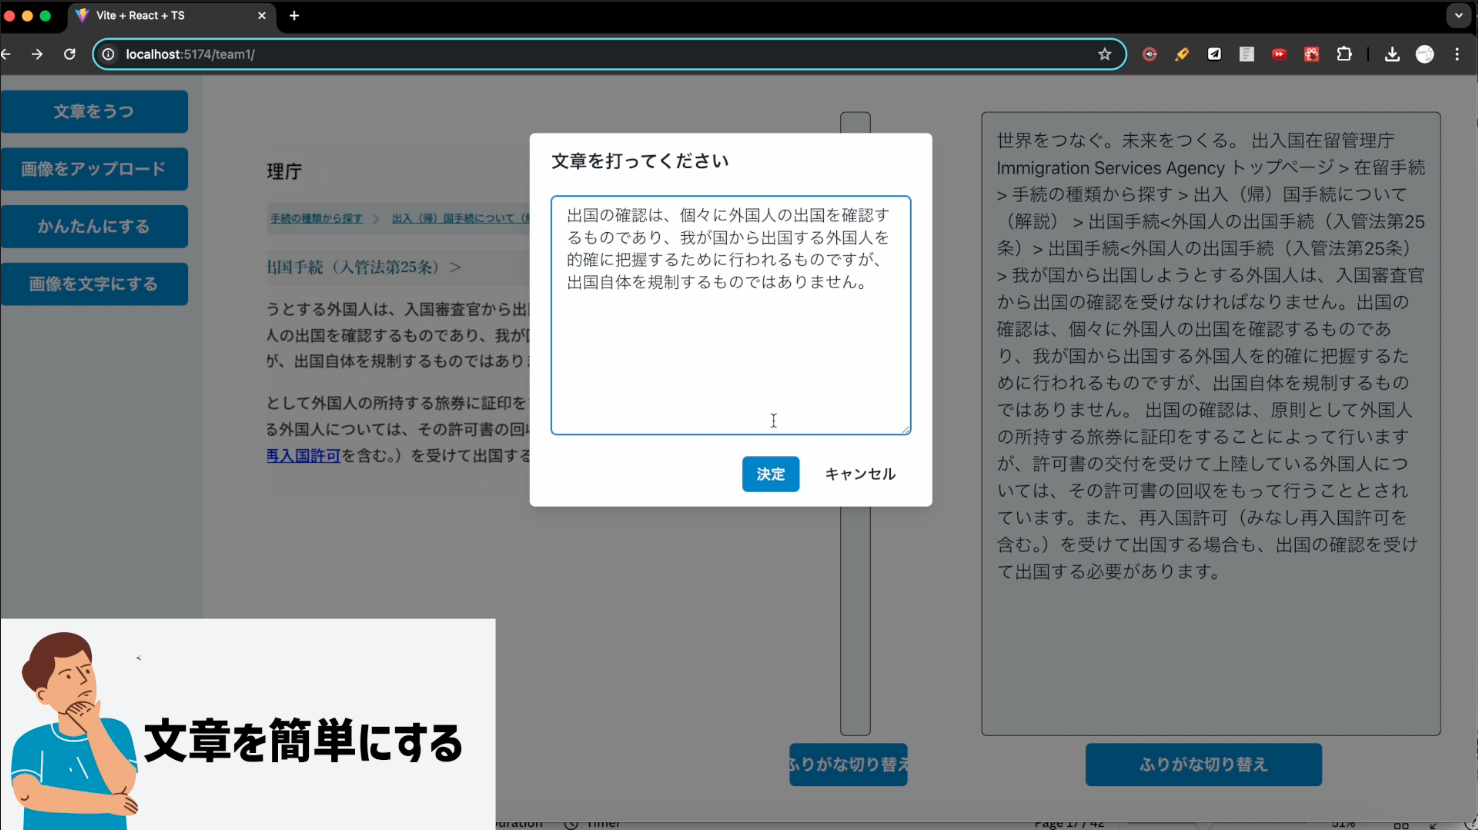
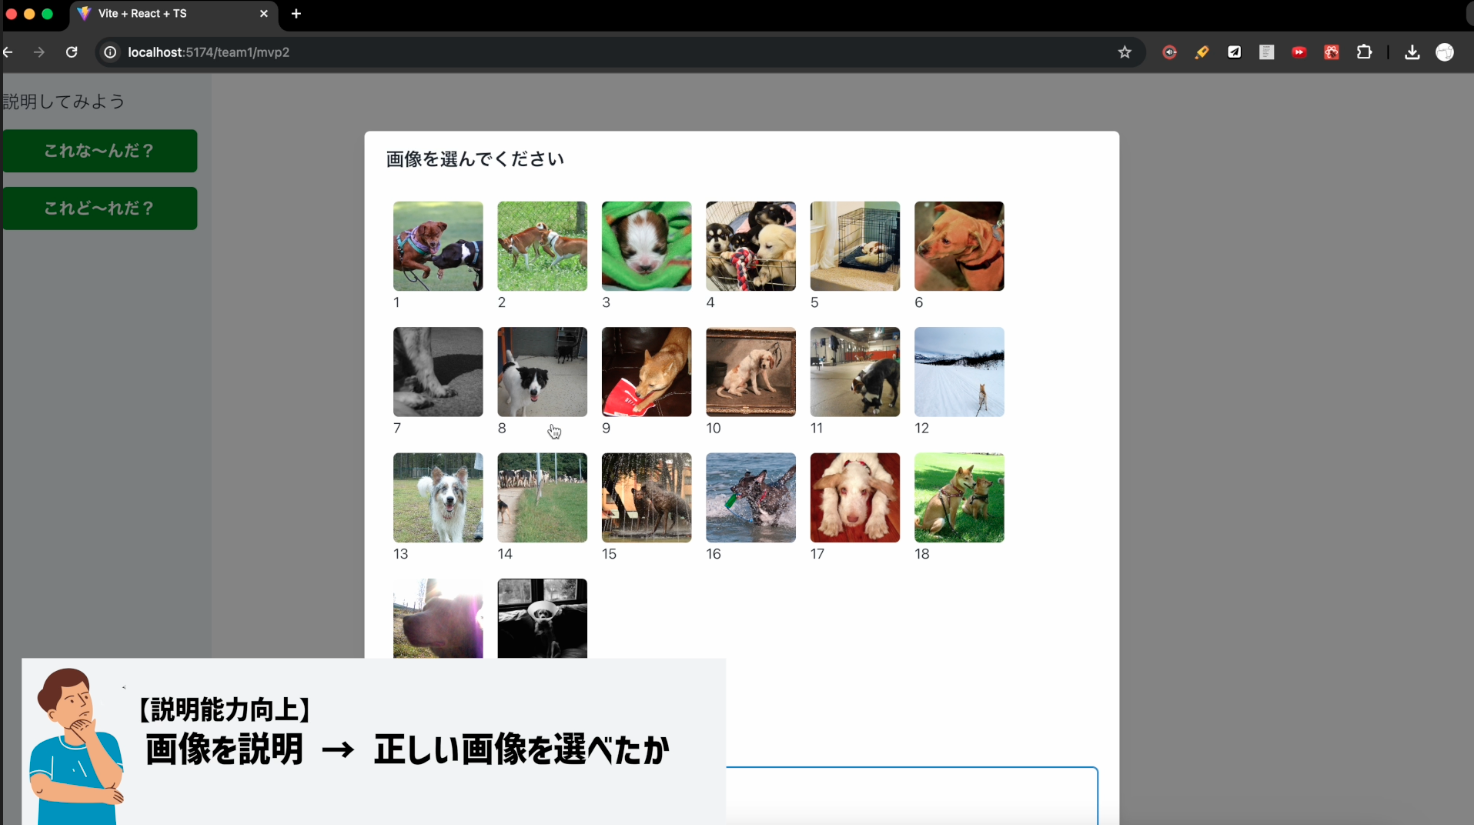
feat: デザイン修正

diff --git a/app/globals.css b/app/globals.css
@@ -57,25 +57,103 @@
 }
 
 .gold-outline-button {
-    border: 3px solid transparent;
-    background: linear-gradient(transparent, transparent) padding-box,
-        linear-gradient(90deg, #B39855 0%, #FFF9E6 50%, #B39855 100%) border-box;
+    position: relative;
+    isolation: isolate;
+    border: 0;
+    background: rgba(0, 0, 0, 0.2);
 }
 
-.gold-outline-button:hover {
-    background: linear-gradient(transparent, transparent) padding-box,
-        linear-gradient(90deg, #B39855 0%, #FFF9E6 50%, #B39855 100%) border-box;
+.gold-outline-button::before,
+.purple-outline-button::before {
+    content: "";
+    position: absolute;
+    inset: 0;
+    z-index: -1;
+    padding: 3px;
+    border-radius: inherit;
+    pointer-events: none;
+    -webkit-mask: linear-gradient(#fff 0 0) content-box, linear-gradient(#fff 0 0);
+    -webkit-mask-composite: xor;
+    mask-composite: exclude;
 }
 
 .purple-outline-button {
-    border: 3px solid transparent;
-    background: linear-gradient(transparent, transparent) padding-box,
-        linear-gradient(90deg, #7E57C2 0%, #E1BEE7 50%, #7E57C2 100%) border-box;
+    position: relative;
+    isolation: isolate;
+    border: 0;
+    background: rgba(0, 0, 0, 0.2);
 }
 
-.purple-outline-button:hover {
-    background: linear-gradient(transparent, transparent) padding-box,
-        linear-gradient(90deg, #7E57C2 0%, #E1BEE7 50%, #7E57C2 100%) border-box;
+.gold-outline-button::before {
+    background: linear-gradient(90deg, #B39855 0%, #FFF9E6 50%, #B39855 100%);
+    background-size: 200% auto;
+    animation: shine 3s linear infinite;
+}
+
+.purple-outline-button::before {
+    background: linear-gradient(90deg, #7E57C2 0%, #E1BEE7 50%, #7E57C2 100%);
+    background-size: 200% auto;
+    animation: shine 3s linear infinite;
+}
+
+.tag-blue,
+.tag-purple,
+.tag-yellow,
+.tag-gray {
+    position: relative;
+    isolation: isolate;
+    border: 0;
+    background: rgba(0, 0, 0, 0.3);
+}
+
+.tag-blue::before,
+.tag-purple::before,
+.tag-yellow::before,
+.tag-gray::before {
+    content: "";
+    position: absolute;
+    inset: 0;
+    z-index: -1;
+    padding: 1px;
+    border-radius: inherit;
+    pointer-events: none;
+    -webkit-mask: linear-gradient(#fff 0 0) content-box, linear-gradient(#fff 0 0);
+    -webkit-mask-composite: xor;
+    mask-composite: exclude;
+    background-size: 200% auto;
+    animation: shine 3s linear infinite;
+}
+
+.tag-blue {
+    color: #93C5FD;
+}
+
+.tag-purple {
+    color: #D8B4FE;
+}
+
+.tag-yellow {
+    color: #FDE68A;
+}
+
+.tag-gray {
+    color: #D1D5DB;
+}
+
+.tag-blue::before {
+    background: linear-gradient(90deg, #2563EB 0%, #BFDBFE 50%, #2563EB 100%);
+}
+
+.tag-purple::before {
+    background: linear-gradient(90deg, #7E22CE 0%, #E9D5FF 50%, #7E22CE 100%);
+}
+
+.tag-yellow::before {
+    background: linear-gradient(90deg, #CA8A04 0%, #FEF08A 50%, #CA8A04 100%);
+}
+
+.tag-gray::before {
+    background: linear-gradient(90deg, #6B7280 0%, #F3F4F6 50%, #6B7280 100%);
 }
 
 .shine-yellow-bg {

diff --git a/components/Research/Presentations.tsx b/components/Research/Presentations.tsx
@@ -63,19 +63,19 @@ const PresentationCard: React.FC<{ pres: Presentation; index: number }> = ({ pre
               {pres.tags.map((tag) => (
                 <span
                   key={tag}
-                  className="rounded-full border border-blue-500/40 bg-gradient-to-r from-blue-600/30 to-blue-400/30 px-2.5 py-0.5 text-xs font-semibold text-blue-300"
+                  className="tag-blue rounded-full px-2.5 py-0.5 text-xs font-semibold"
                 >
-                  {tag}
+                  <span className="shine-blue-text">{tag}</span>
                 </span>
               ))}
             </div>
 
             <div className="mt-2 flex flex-wrap items-center gap-2">
-              <span className="rounded-full border border-purple-500/40 bg-gradient-to-r from-purple-600/30 to-purple-400/30 px-2.5 py-0.5 text-xs font-semibold text-purple-200">
-                {pres.event}
+              <span className="tag-purple rounded-full px-2.5 py-0.5 text-xs font-semibold">
+                <span className="shine-purple-text">{pres.event}</span>
               </span>
-              <span className="rounded-full border border-gray-500/50 bg-white/5 px-2.5 py-0.5 text-xs font-semibold text-gray-300">
-                {pres.date}
+              <span className="tag-gray rounded-full px-2.5 py-0.5 text-xs font-semibold">
+                <span className="shine-silver-text">{pres.date}</span>
               </span>
             </div>
           </div>

diff --git a/components/Blog/BlogList.tsx b/components/Blog/BlogList.tsx
@@ -43,10 +43,10 @@ const BlogList: React.FC<BlogListProps> = ({ posts }) => {
               className={`px-4 py-2 rounded-full text-sm transition-all duration-300 ${
                 selectedTag === null
                   ? 'shine-yellow-bg font-semibold'
-                  : 'bg-black/40 text-gray-300 hover:bg-black/60 border border-gray-600'
+                  : 'tag-purple text-sm hover:bg-black/50'
               }`}
             >
-              {t('all')}
+              <span className={selectedTag === null ? '' : 'shine-purple-text'}>{t('all')}</span>
             </button>
             {allTags.map((tag) => (
               <button
@@ -55,10 +55,10 @@ const BlogList: React.FC<BlogListProps> = ({ posts }) => {
                 className={`px-4 py-2 rounded-full text-sm transition-all duration-300 ${
                   selectedTag === tag
                   ? 'shine-yellow-bg font-semibold'
-                    : 'bg-black/40 text-gray-300 hover:bg-black/60 border border-gray-600'
+                  : 'tag-purple hover:bg-black/50'
                 }`}
               >
-                {tag}
+                <span className={selectedTag === tag ? 'text-black' : 'shine-purple-text'}>{tag}</span>
               </button>
             ))}
           </div>

diff --git a/components/Blog/BlogSection.tsx b/components/Blog/BlogSection.tsx
@@ -99,9 +99,9 @@ const BlogSection: React.FC<BlogSectionProps> = ({ posts }) => {
                           {post.tags.slice(0, 2).map((tag, index) => (
                             <span
                               key={index}
-                              className="px-2 py-1 text-xs rounded-full bg-gradient-to-r from-purple-600/20 to-purple-400/20 text-purple-300 border border-purple-500/30"
+                              className="tag-purple px-2 py-1 text-xs rounded-full"
                             >
-                              {tag}
+                              <span className="shine-purple-text">{tag}</span>
                             </span>
                           ))}
                           {post.tags.length > 2 && (
@@ -113,7 +113,7 @@ const BlogSection: React.FC<BlogSectionProps> = ({ posts }) => {
                       </div>
                     </div>
                     {post.thumbnail && (
-                      <div className="w-full md:w-24 md:h-16 rounded-lg overflow-hidden flex-shrink-0">
+                      <div className="w-full md:w-36 md:h-24 rounded-lg overflow-hidden flex-shrink-0">
                         <img
                           src={post.thumbnail}
                           alt={post.title}

diff --git a/components/Research/Education.tsx b/components/Research/Education.tsx
@@ -98,7 +98,7 @@ const Education: React.FC = () => {
                   <div className="shine-silver-text flex flex-wrap items-center gap-3 text-base font-semibold md:text-lg">
                     <span>{edu.period}</span>
                     {edu.current && (
-                      <span className="shine-lightblue-text rounded-full border border-blue-500/40 bg-gradient-to-r from-blue-600/20 to-blue-400/20 px-3 py-1 text-sm font-semibold">
+                      <span className="shine-blue-text rounded-full border border-blue-500/40 bg-black/30 px-3 py-1 text-sm font-semibold">
                         Current
                       </span>
                     )}
